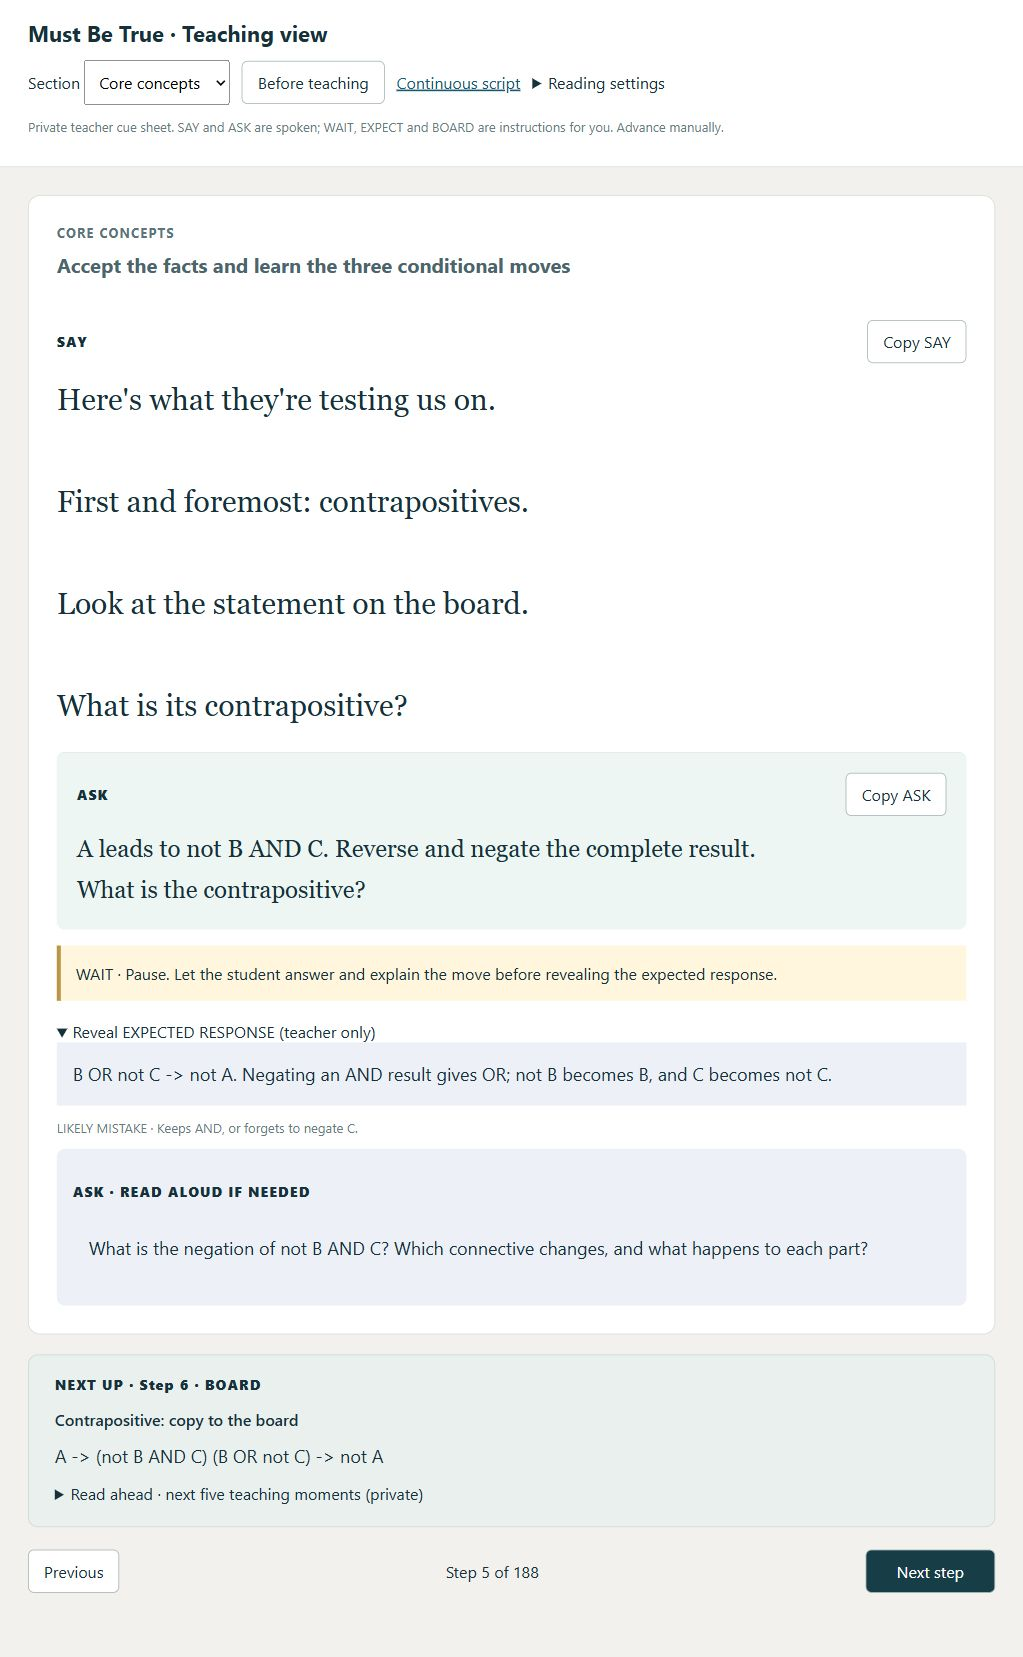
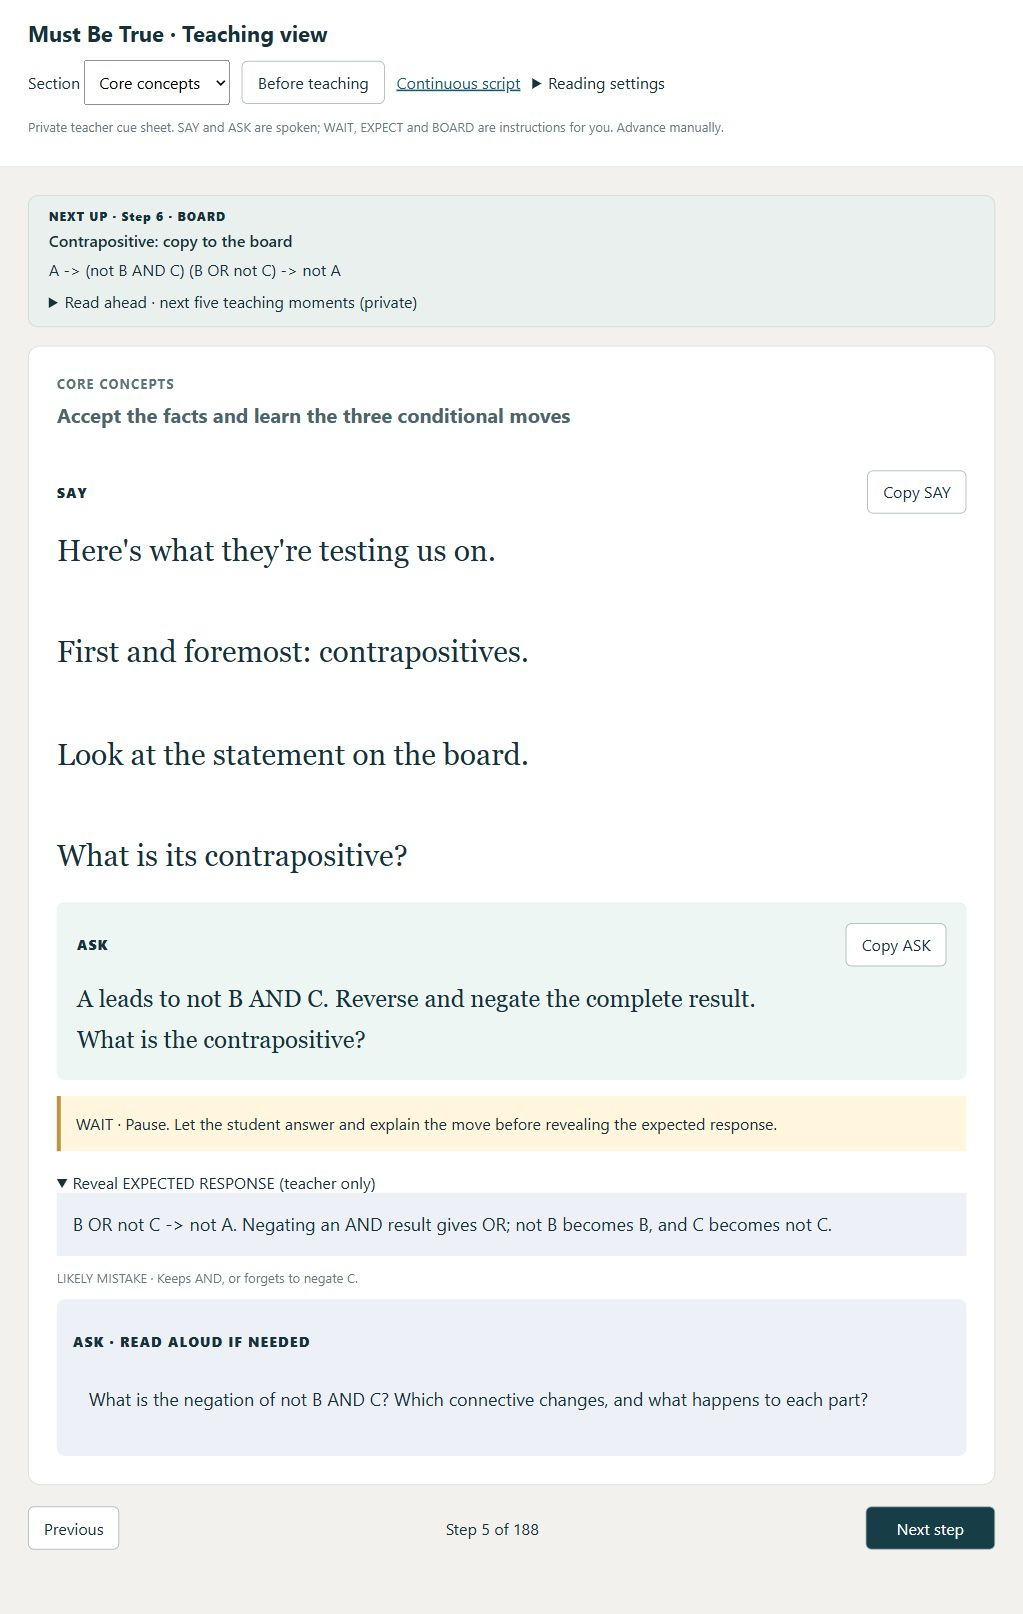
auto-backup 2026-09-30 07:06:05

diff --git a/skills/claude/lsat-lab-lecture-transcribe/scripts/teaching_view.py b/skills/claude/lsat-lab-lecture-transcribe/scripts/teaching_view.py
@@ -100,6 +100,7 @@ def render(lesson, manifest, output, brief_html):
     script = script.replace("window.scrollTo({top:0,behavior:'instant'});", "scheduleAuto(items);window.scrollTo({top:0,behavior:'instant'});")
     script = script.replace("function move(amount){", "function move(amount){Object.values(timers).forEach(timer=>timer.running=false);")
     script = script.replace("select.onchange=()=>{", "select.onchange=()=>{Object.values(timers).forEach(timer=>timer.running=false);")
+    script += "function applyLectureHash(){if(location.hash==='#teaching-brief'){pauseAutoForInteraction();if(!document.querySelector('#prep').open)document.querySelector('#prep').showModal();return;}const match=location.hash.match(/^#segment-(\\d+)$/);if(!match)return;const section=Object.keys(data.sections)[Number(match[1])-1];const position=cards.findIndex(card=>card[0].section_id===section);if(position>=0){Object.values(timers).forEach(timer=>timer.running=false);current=position;render();}}window.addEventListener('hashchange',applyLectureHash);applyLectureHash();"
     script = script.replace("async function copyText(text,label){", "async function copyText(text,label){pauseAutoForInteraction();")
     script = script.replace("zoom.showModal();", "pauseAutoForInteraction();zoom.showModal();")
     script = script.replace("fallback.showModal();", "pauseAutoForInteraction();fallback.showModal();")
@@ -117,7 +118,7 @@ def render(lesson, manifest, output, brief_html):
     pacing_script += "document.querySelector('#read-ahead').addEventListener('toggle',()=>{if(document.querySelector('#read-ahead').open)pauseAutoForInteraction();});"
     document = f'''<!doctype html><html lang="en"><meta charset="utf-8"><meta name="viewport" content="width=device-width,initial-scale=1"><title>{e(manifest['title'])}: teaching view</title><style>{STYLE}</style><header><h1>{e(manifest['title'])} · Teaching view</h1><div class="bar"><label>Section <select id="sections" aria-label="Choose lecture section"></select></label><button id="brief">Before teaching</button><a href="full-script.html">Continuous script</a><details><summary>Reading settings</summary><label>Text size <input id="font" type="range" min="24" max="44" value="30" aria-label="Spoken text size"></label><label><input id="autopace" type="checkbox"> Auto-read SAY only</label><label>Words/min <input id="wpm" type="number" min="80" max="240" value="140" style="width:80px"></label></details></div><p class="private">Private teacher cue sheet. SAY and ASK are spoken; WAIT, EXPECT and BOARD are instructions for you. Advance manually.</p></header><main><article id="card" class="moment"></article><div class="bottom"><button id="prev">Previous</button><span id="count" aria-live="polite"></span><button id="next">Next step</button></div><div id="status" role="status"></div></main><dialog id="prep"><button data-close>Close preparation</button>{brief_html}</dialog><dialog id="zoom"><button data-close>Close full-size image</button><img alt=""></dialog><dialog id="copy-fallback"><button data-close>Close</button><p>Text is selected. Press Ctrl+C or Command+C, then paste into your live board.</p><textarea id="fallback" aria-label="Text to copy" readonly></textarea></dialog><script type="application/json" id="lesson-data">{data}</script><script>{pacing_script}{script}</script></html>'''
     ahead = '<aside class="ahead"><div id="next-up"></div><details id="read-ahead"><summary>Read ahead · next five teaching moments (private)</summary><div id="ahead-content"></div></details></aside>'
-    document = document.replace('<div class="bottom">', ahead+'<div class="bottom">', 1)
-    document = document.replace('</style>', '.ahead{margin-top:20px;padding:20px 26px;border:1px solid #ccd8d4;border-radius:10px;background:#eaf0ee}.previewtext{font:18px/1.65 system-ui;white-space:pre-wrap;max-width:52em;margin:10px 0}.previewtitle{font:600 16px/1.5 system-ui;margin:8px 0}.ahead summary{cursor:pointer;font:16px/1.6 system-ui}.ahead-moment{padding:22px 0;border-top:1px solid #ccd8d4}.ahead-moment h3{font-size:18px}.ahead .private{font:16px/1.6 system-ui} #next-up .label{margin-top:0}</style>', 1)
+    document = document.replace('<article id="card"', ahead+'<article id="card"', 1)
+    document = document.replace('</style>', '.ahead{margin-bottom:18px;padding:12px 20px;border:1px solid #ccd8d4;border-radius:10px;background:#eaf0ee}.previewtext{font:18px/1.65 system-ui;white-space:pre-wrap;max-width:52em;margin:10px 0}.previewtitle{font:600 16px/1.5 system-ui;margin:5px 0}.ahead summary{cursor:pointer;font:16px/1.6 system-ui}.ahead-moment{padding:22px 0;border-top:1px solid #ccd8d4}.ahead-moment h3{font-size:18px}.ahead .private{font:16px/1.6 system-ui} #next-up .label{margin:0;font-size:12px} #next-up .previewtext{font-size:16px;line-height:1.45;margin:5px 0 8px}</style>', 1)
     document = document.replace('<script>'+pacing_script, '<script>'+READ_AHEAD_SCRIPT+pacing_script, 1)
     return document, assets, len(cards)

diff --git a/skills/codex/lsat-lab-lecture-transcribe/scripts/teaching_view.py b/skills/codex/lsat-lab-lecture-transcribe/scripts/teaching_view.py
@@ -100,6 +100,7 @@ def render(lesson, manifest, output, brief_html):
     script = script.replace("window.scrollTo({top:0,behavior:'instant'});", "scheduleAuto(items);window.scrollTo({top:0,behavior:'instant'});")
     script = script.replace("function move(amount){", "function move(amount){Object.values(timers).forEach(timer=>timer.running=false);")
     script = script.replace("select.onchange=()=>{", "select.onchange=()=>{Object.values(timers).forEach(timer=>timer.running=false);")
+    script += "function applyLectureHash(){if(location.hash==='#teaching-brief'){pauseAutoForInteraction();if(!document.querySelector('#prep').open)document.querySelector('#prep').showModal();return;}const match=location.hash.match(/^#segment-(\\d+)$/);if(!match)return;const section=Object.keys(data.sections)[Number(match[1])-1];const position=cards.findIndex(card=>card[0].section_id===section);if(position>=0){Object.values(timers).forEach(timer=>timer.running=false);current=position;render();}}window.addEventListener('hashchange',applyLectureHash);applyLectureHash();"
     script = script.replace("async function copyText(text,label){", "async function copyText(text,label){pauseAutoForInteraction();")
     script = script.replace("zoom.showModal();", "pauseAutoForInteraction();zoom.showModal();")
     script = script.replace("fallback.showModal();", "pauseAutoForInteraction();fallback.showModal();")
@@ -117,7 +118,7 @@ def render(lesson, manifest, output, brief_html):
     pacing_script += "document.querySelector('#read-ahead').addEventListener('toggle',()=>{if(document.querySelector('#read-ahead').open)pauseAutoForInteraction();});"
     document = f'''<!doctype html><html lang="en"><meta charset="utf-8"><meta name="viewport" content="width=device-width,initial-scale=1"><title>{e(manifest['title'])}: teaching view</title><style>{STYLE}</style><header><h1>{e(manifest['title'])} · Teaching view</h1><div class="bar"><label>Section <select id="sections" aria-label="Choose lecture section"></select></label><button id="brief">Before teaching</button><a href="full-script.html">Continuous script</a><details><summary>Reading settings</summary><label>Text size <input id="font" type="range" min="24" max="44" value="30" aria-label="Spoken text size"></label><label><input id="autopace" type="checkbox"> Auto-read SAY only</label><label>Words/min <input id="wpm" type="number" min="80" max="240" value="140" style="width:80px"></label></details></div><p class="private">Private teacher cue sheet. SAY and ASK are spoken; WAIT, EXPECT and BOARD are instructions for you. Advance manually.</p></header><main><article id="card" class="moment"></article><div class="bottom"><button id="prev">Previous</button><span id="count" aria-live="polite"></span><button id="next">Next step</button></div><div id="status" role="status"></div></main><dialog id="prep"><button data-close>Close preparation</button>{brief_html}</dialog><dialog id="zoom"><button data-close>Close full-size image</button><img alt=""></dialog><dialog id="copy-fallback"><button data-close>Close</button><p>Text is selected. Press Ctrl+C or Command+C, then paste into your live board.</p><textarea id="fallback" aria-label="Text to copy" readonly></textarea></dialog><script type="application/json" id="lesson-data">{data}</script><script>{pacing_script}{script}</script></html>'''
     ahead = '<aside class="ahead"><div id="next-up"></div><details id="read-ahead"><summary>Read ahead · next five teaching moments (private)</summary><div id="ahead-content"></div></details></aside>'
-    document = document.replace('<div class="bottom">', ahead+'<div class="bottom">', 1)
-    document = document.replace('</style>', '.ahead{margin-top:20px;padding:20px 26px;border:1px solid #ccd8d4;border-radius:10px;background:#eaf0ee}.previewtext{font:18px/1.65 system-ui;white-space:pre-wrap;max-width:52em;margin:10px 0}.previewtitle{font:600 16px/1.5 system-ui;margin:8px 0}.ahead summary{cursor:pointer;font:16px/1.6 system-ui}.ahead-moment{padding:22px 0;border-top:1px solid #ccd8d4}.ahead-moment h3{font-size:18px}.ahead .private{font:16px/1.6 system-ui} #next-up .label{margin-top:0}</style>', 1)
+    document = document.replace('<article id="card"', ahead+'<article id="card"', 1)
+    document = document.replace('</style>', '.ahead{margin-bottom:18px;padding:12px 20px;border:1px solid #ccd8d4;border-radius:10px;background:#eaf0ee}.previewtext{font:18px/1.65 system-ui;white-space:pre-wrap;max-width:52em;margin:10px 0}.previewtitle{font:600 16px/1.5 system-ui;margin:5px 0}.ahead summary{cursor:pointer;font:16px/1.6 system-ui}.ahead-moment{padding:22px 0;border-top:1px solid #ccd8d4}.ahead-moment h3{font-size:18px}.ahead .private{font:16px/1.6 system-ui} #next-up .label{margin:0;font-size:12px} #next-up .previewtext{font-size:16px;line-height:1.45;margin:5px 0 8px}</style>', 1)
     document = document.replace('<script>'+pacing_script, '<script>'+READ_AHEAD_SCRIPT+pacing_script, 1)
     return document, assets, len(cards)

diff --git a/wiki/log.md b/wiki/log.md
@@ -1426,3 +1426,5 @@ Verified question copy, board copy through the browser clipboard, question image
 Updated [the lecture library](../corpus/lectures/index.md), its [Must Be True Core package](../corpus/lectures/logical-reasoning/must-be-true/core/2026-08-27-33013/index.md), and the main wiki index with explicit retrieval and private-teaching instructions. The library remains independent of student folders. Verified the full wiki-to-corpus-to-section-to-topic-to-level-to-lecture routing and local index links.
 
 Added four targeted Socratic checkpoints without removing source SAY content. All 23 expected-response panels now identify a likely wrong turn and give an exact recovery question. Reviewed the reasoning against the five worked questions. The reader now previews Next up and permits Read ahead through the next five teaching moments while preserving the current place. The continuous script remains available for preparation. These are teacher facilitation additions, distinct from original source wording.
+
+Browser verification: Next up is above the current teaching card; Read ahead displays the next five full moments without moving the current step. Revealing EXPECTED RESPONSE displays expected reasoning, the likely mistake, and the exact recovery ASK. Fixed legacy deep-link handling and verified initial Q1 and live Q2-Q5 anchors select their intended sections; the preparation anchor opens the brief. Saved teacher-socratic-preview.png and left the private teacher reader visible in Codex. All four runtime/catalog helper copies match. The local viewing URL depends on its server; the saved files and second-brain routes persist independently.
